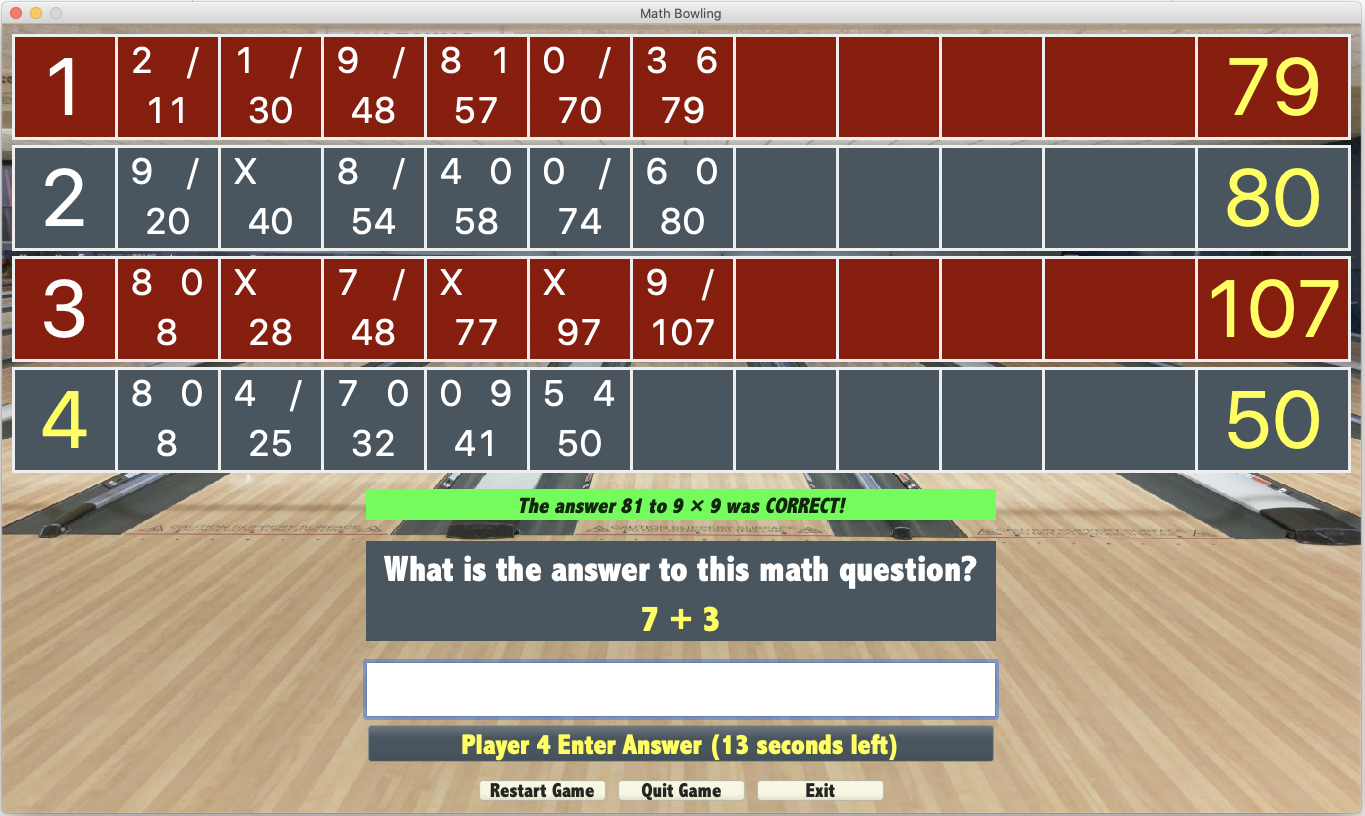
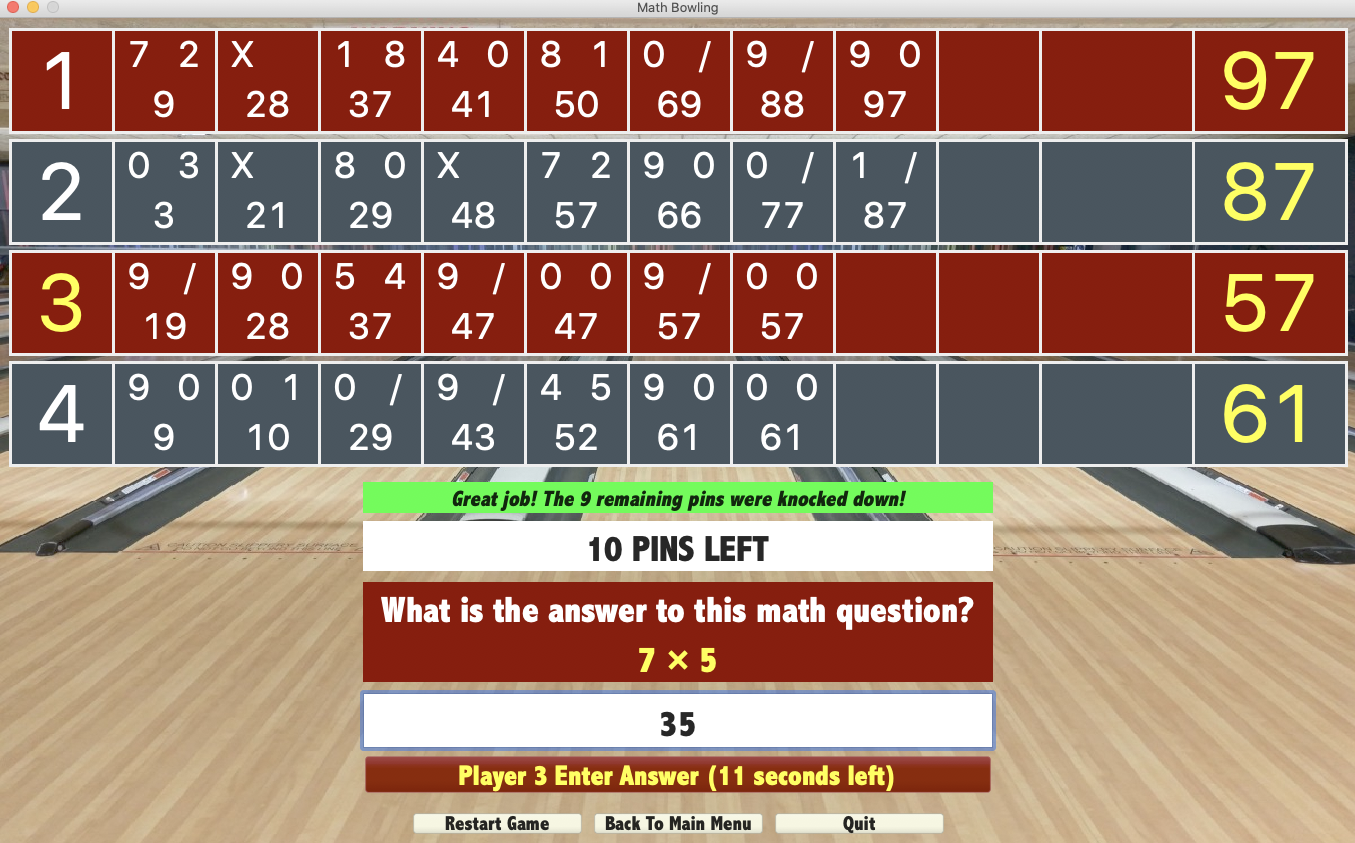
Updated scoring verbiage + improvements

diff --git a/app/views/math_bowling/game_view.rb b/app/views/math_bowling/game_view.rb
@@ -143,7 +143,7 @@ class MathBowling
               }
               @videos = MathBowling::Game::ANSWER_RESULTS.reduce({}) do |videos, answer_result|
                 videos.merge(
-                  answer_result => video(file: FILE_VIDEOS[answer_result], autoplay: false, controls: false, fit_to_height: false, offset_y: -150, offset_x: -80) { |video|
+                  answer_result => video(file: FILE_VIDEOS[answer_result], autoplay: false, controls: false, fit_to_height: false, offset_y: -120, offset_x: -80) { |video|
                     layout_data {
                       exclude true
                       width 0
@@ -170,15 +170,19 @@ class MathBowling
                   }
                 )
               end
+              label(:center) {
+                background color(:white)
+                text bind(@game, 'current_player.score_sheet.current_frame.remaining_pins') {|pins| "#{pins} PIN#{'S' if pins != 1} LEFT"}
+                font @font.merge height: 36
+                layout_data { exclude false }
+              }
               @math_question_container = composite {
                 background @background
+                layout_data { exclude false }
                 grid_layout(1, false) {
                   margin_width 0
-                  margin_height 15
+#                   margin_height 15
                   vertical_spacing 0
-                }
-                layout_data {
-                  exclude false
                 }
                 label(:center) {
                   background bind(self, :player_color, computed_by: "game.current_player.index")
@@ -292,6 +296,7 @@ class MathBowling
     def handle_answer_result_announcement
       observe(@game, :answer_result) do
         if @game.answer_result
+          @last_answer = @game.answer
           new_answer_result_announcement = "The answer #{@game.answer.to_i} to #{@game.question} is #{@game.answer_result}!"
           if @game.answer_result != 'CORRECT'
             new_answer_result_announcement += " Correct answer is #{@game.correct_answer.to_i}."
@@ -313,13 +318,15 @@ class MathBowling
       observe(self, 'video_playing_time') do
         if video_playing_time.nil? && @game.answer_result
           new_answer_result_announcement = ""
-          if @game.answer_result != 'WRONG'
-            new_answer_result_announcement += "Good job! "
+          if @game.answer_result == 'CLOSE'
+            new_answer_result_announcement += "Nice try! "
+          elsif @game.answer_result == 'CORRECT'
+            new_answer_result_announcement += "Great job! "
           end
-          new_answer_result_announcement += "#{@game.fallen_pins} out of #{@game.remaining_pins} pins were knocked!"
-          answer_and_correct_answer = [@game.answer.to_i, @game.correct_answer.to_i]
-          fallen_pins_calculation = " Calculation: #{@game.remaining_pins} - (#{answer_and_correct_answer.max} - #{answer_and_correct_answer.min})"
-          new_answer_result_announcement += fallen_pins_calculation
+          new_answer_result_announcement += "#{@game.fallen_pins == @game.remaining_pins ? "The" : "#{@game.fallen_pins} of the"} #{@game.remaining_pins}#{' remaining' if @game.remaining_pins < 10} pin#{'s' if @game.remaining_pins != 1} #{@game.fallen_pins != 1 ? 'were' : 'was'} knocked down!"
+          answer_and_correct_answer = [@last_answer.to_i, @game.correct_answer.to_i]
+#           fallen_pins_calculation = " Calculation: #{@game.remaining_pins} - (#{answer_and_correct_answer.max} - #{answer_and_correct_answer.min})"
+#           new_answer_result_announcement += fallen_pins_calculation
           self.answer_result_announcement = new_answer_result_announcement
         end
       end

diff --git a/app/models/math_bowling/frame.rb b/app/models/math_bowling/frame.rb
@@ -3,12 +3,13 @@ class MathBowling
   MAX_PIN_COUNT = 10
   # TODO handle case for last frame giving a 3rd roll when scoring a spare/strike
   class Frame
-    attr_accessor :rolls
+    attr_accessor :rolls, :remaining_pins
     attr_accessor :previous_frame, :next_frame
 
     def initialize(number)
       @number = number
       @rolls = [nil, nil]
+      @remaining_pins = 10
       if last?
         @rolls << nil
       end
@@ -126,13 +127,14 @@ class MathBowling
         self.rolls[2] = 'X' if rolls[2] == MAX_PIN_COUNT
         self.rolls[2] = '/' if !double_strike? && (indexed_roll_score(1) + indexed_roll_score(2)) == MAX_PIN_COUNT
       end
+      self.remaining_pins = calculate_remaining_pins
     end
 
     def random_roll_fallen_pins
       (rand*(1 + remaining_pins)).to_i
     end
 
-    def remaining_pins
+    def calculate_remaining_pins
       if last? && (spare? || (strike? && rolls[1].nil?) || double_strike?)
         MAX_PIN_COUNT
       elsif last? && strike? && !double_strike? && !rolls[1].nil?

diff --git a/README.md b/README.md
@@ -1,8 +1,8 @@
-# Math Bowling 1.0.1
+# Math Bowling 1.1.0
 
-![Math Bowling Screenshot](https://raw.githubusercontent.com/AndyObtiva/MathBowling/master/images/Math-Bowling-Screenshot.png)
+![Math Bowling Screenshot](images/Math-Bowling-Screenshot.png)
 
-<span style="font-size: 1.9em; position: relative; top: 5px">[<img alt="Math Bowling Logo" src="images/math-bowling-logo.png" width="40" />Download Math Bowling 1.0.1 for Mac]()</span>
+<span style="font-size: 1.9em; position: relative; top: 5px">[<img alt="Math Bowling Logo" src="images/math-bowling-logo.png" width="40" />Download Math Bowling 1.1.0 for Mac]()</span>
 
 Math Bowling is an elementary level educational math game.
 
@@ -79,11 +79,13 @@ Developed with [Glimmer](https://github.com/AndyObtiva/Glimmer) and [JRuby](http
 1. [DONE] Menu Options
 1. [DONE] Icon/Background for MacOS Package
 
-[DONE] 1.0.1 Release ([download]()):
+[DONE] 1.1.0 Release ([download]()):
 1. [DONE] Fix issue with game font not showing up on some older Macs
 1. [DONE] Fix video scrollbar issue on some older Macs
-1. [DONE] Improve wording of buttons
+1. [DONE] Improve wording of buttons and answer result announcements
 1. [DONE] Improve difficulty of questions
+1. Spare shot video
+1. Multiple videos for each scoring type
 
 2.0.0 Release:
 
@@ -94,8 +96,6 @@ Developed with [Glimmer](https://github.com/AndyObtiva/Glimmer) and [JRuby](http
 1. Multiple difficulties (Easy, Medium, Hard) with more difficult questions and shorter answer time
 1. Players can choose unique player color to distinguish themselves
 1. Players may enter name
-1. Spare shot video
-1. Multiple videos for each scoring type
 
 2.1.0 Release:
 
